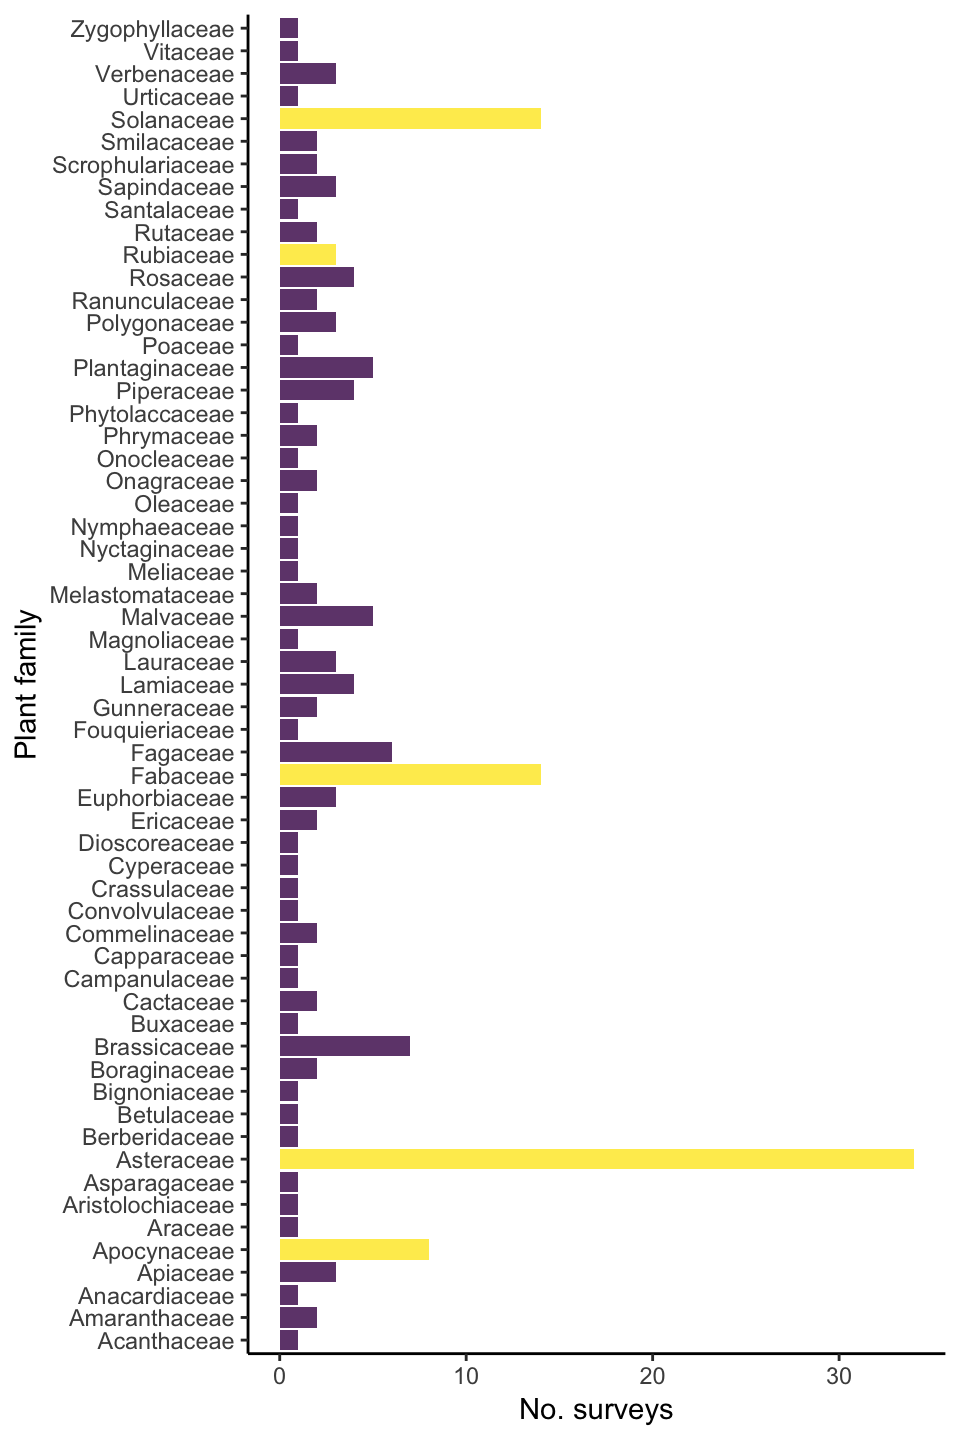
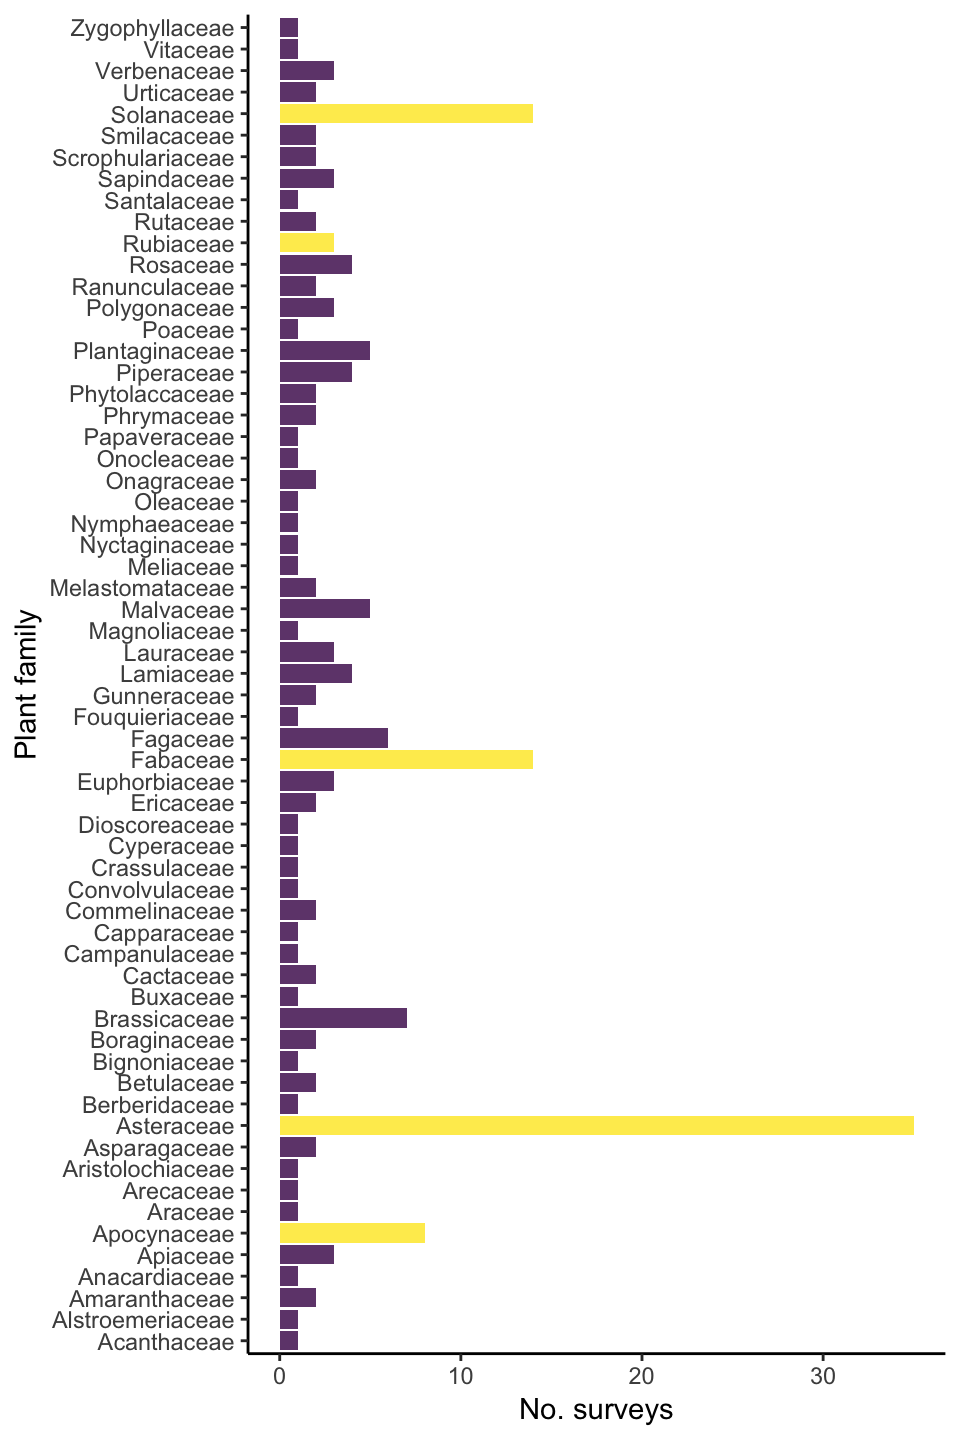
new survs

diff --git a/status.html b/status.html
@@ -218,7 +218,7 @@ $(document).ready(function () {
 </div>
 
 
-<p>The Herbivory Variability Network has completed 182 surveys on 154 plant species from 59 plant families. These figures and tables update as new data are entered into our database, so check back often!</p>
+<p>The Herbivory Variability Network has completed 190 surveys on 162 plant species from 62 plant families. These figures and tables update as new data are entered into our database, so check back often!</p>
 <p>We have a three-scaled sampling approach:</p>
 <ol style="list-style-type: decimal">
 <li>Sampling one plant species from as many plant families as possible</li>
@@ -300,99 +300,115 @@ Sampling areas with at least one completed survey (yellow) and planned sampling 
 <td align="left">1</td>
 </tr>
 <tr class="odd">
+<td align="left"><em>Alnus acuminata</em></td>
+<td align="left">1</td>
+</tr>
+<tr class="even">
 <td align="left"><em>Anemone coronaria</em></td>
 <td align="left">1</td>
 </tr>
-<tr class="even">
+<tr class="odd">
 <td align="left"><em>Arabidopsis halleri</em></td>
 <td align="left">4</td>
 </tr>
-<tr class="odd">
+<tr class="even">
 <td align="left"><em>Arctium </em></td>
 <td align="left">1</td>
 </tr>
-<tr class="even">
+<tr class="odd">
 <td align="left"><em>Arctium minus</em></td>
 <td align="left">1</td>
 </tr>
-<tr class="odd">
+<tr class="even">
 <td align="left"><em>Arctostaphylos pungens</em></td>
 <td align="left">1</td>
 </tr>
-<tr class="even">
+<tr class="odd">
 <td align="left"><em>Arisaema triphyllum</em></td>
 <td align="left">1</td>
 </tr>
-<tr class="odd">
+<tr class="even">
 <td align="left"><em>Artemisia mongolica</em></td>
 <td align="left">1</td>
 </tr>
-<tr class="even">
+<tr class="odd">
 <td align="left"><em>Asarum canadense</em></td>
 <td align="left">1</td>
 </tr>
-<tr class="odd">
+<tr class="even">
 <td align="left"><em>Asclepias cryptoceras</em></td>
 <td align="left">1</td>
 </tr>
-<tr class="even">
+<tr class="odd">
 <td align="left"><em>Asclepias syriaca</em></td>
 <td align="left">4</td>
 </tr>
-<tr class="odd">
+<tr class="even">
 <td align="left"><em>Asclepias tuberosa</em></td>
 <td align="left">1</td>
 </tr>
-<tr class="even">
+<tr class="odd">
 <td align="left"><em>Balsamorhiza sagittata</em></td>
 <td align="left">3</td>
 </tr>
-<tr class="odd">
+<tr class="even">
 <td align="left"><em>Bauhinia brevipes</em></td>
 <td align="left">1</td>
 </tr>
+<tr class="odd">
+<td align="left"><em>Bocconia frutescens</em></td>
+<td align="left">1</td>
+</tr>
 <tr class="even">
+<td align="left"><em>Bomarea chiriquina</em></td>
+<td align="left">1</td>
+</tr>
+<tr class="odd">
 <td align="left"><em>Brasenia schreberi</em></td>
 <td align="left">1</td>
 </tr>
-<tr class="odd">
+<tr class="even">
 <td align="left"><em>Brassica oleracea</em></td>
 <td align="left">1</td>
 </tr>
-<tr class="even">
+<tr class="odd">
 <td align="left"><em>Bridelia crenulata</em></td>
 <td align="left">1</td>
 </tr>
-<tr class="odd">
+<tr class="even">
 <td align="left"><em>Buxus sempervirens</em></td>
 <td align="left">1</td>
 </tr>
-<tr class="even">
+<tr class="odd">
 <td align="left"><em>Campanula persicifolia</em></td>
 <td align="left">1</td>
 </tr>
-<tr class="odd">
+<tr class="even">
 <td align="left"><em>Capparis erythrocarpos</em></td>
 <td align="left">1</td>
 </tr>
-<tr class="even">
+<tr class="odd">
 <td align="left"><em>Carpinus caroliniana</em></td>
 <td align="left">1</td>
 </tr>
-<tr class="odd">
+<tr class="even">
 <td align="left"><em>Castanea sativa</em></td>
 <td align="left">1</td>
 </tr>
-<tr class="even">
+<tr class="odd">
 <td align="left"><em>Catalpa speciosa</em></td>
 <td align="left">1</td>
 </tr>
-<tr class="odd">
+<tr class="even">
 <td align="left"><em>Cephalanthus occidentalis</em></td>
 <td align="left">1</td>
 </tr>
-<tr class="even">
+<tr class="odd">
 <td align="left"><em>Cercis canadensis</em></td>
+<td align="left">1</td>
+</tr>
+<tr class="even">
+<td align="left"><em>Chamaedorea costaricana</em></td>
 <td align="left">1</td>
 </tr>
 <tr class="odd">
@@ -532,36 +548,44 @@ Sampling areas with at least one completed survey (yellow) and planned sampling 
 <td align="left">1</td>
 </tr>
 <tr class="odd">
+<td align="left"><em>Jessea multivenia</em></td>
+<td align="left">1</td>
+</tr>
+<tr class="even">
 <td align="left"><em>Kalimeris integrifolia</em></td>
 <td align="left">1</td>
 </tr>
-<tr class="even">
+<tr class="odd">
 <td align="left"><em>Lantana camara</em></td>
 <td align="left">2</td>
 </tr>
-<tr class="odd">
+<tr class="even">
 <td align="left"><em>Lathyrus quinquenervius</em></td>
 <td align="left">1</td>
 </tr>
-<tr class="even">
+<tr class="odd">
 <td align="left"><em>Liriodendron tulipifera</em></td>
 <td align="left">1</td>
 </tr>
-<tr class="odd">
+<tr class="even">
 <td align="left"><em>Lupinus arboreus</em></td>
 <td align="left">1</td>
 </tr>
-<tr class="even">
+<tr class="odd">
 <td align="left"><em>Lupinus perennis</em></td>
 <td align="left">1</td>
 </tr>
-<tr class="odd">
+<tr class="even">
 <td align="left"><em>Lupinus polyphyllus</em></td>
 <td align="left">1</td>
 </tr>
-<tr class="even">
+<tr class="odd">
 <td align="left"><em>Lupinus sericeus</em></td>
 <td align="left">2</td>
+</tr>
+<tr class="even">
+<td align="left"><em>Maianthemum gigas</em></td>
+<td align="left">1</td>
 </tr>
 <tr class="odd">
 <td align="left"><em>Melhania ovata</em></td>
@@ -632,7 +656,15 @@ Sampling areas with at least one completed survey (yellow) and planned sampling 
 <td align="left">1</td>
 </tr>
 <tr class="even">
+<td align="left"><em>Phytolacca rivinoides</em></td>
+<td align="left">1</td>
+</tr>
+<tr class="odd">
 <td align="left"><em>Pilea pumila</em></td>
+<td align="left">1</td>
+</tr>
+<tr class="even">
+<td align="left"><em>Pilea vulcanica</em></td>
 <td align="left">1</td>
 </tr>
 <tr class="odd">
